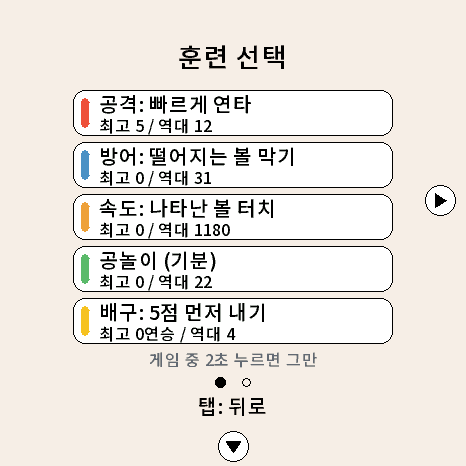
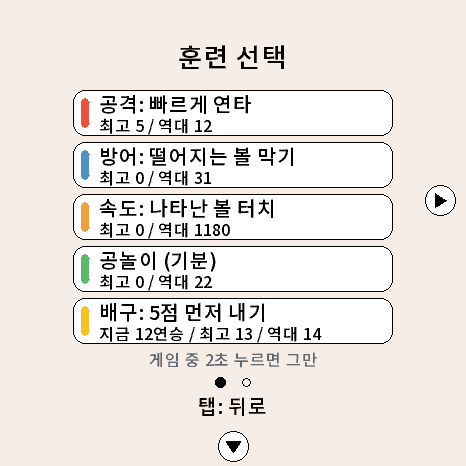
Volleyball: show the current streak; power spikes with the type move effect
- Training menu volleyball row: "Now N wins / best N / all-time N".
- 25% of spikes are power spikes: the pet's type move name and effect
  follow the ball; 22% faster and 20% harder to receive. Both sides.

Claude-Session: https://claude.ai/code/session_01CiwvMdFH9wtdhm1XA9VgMB

Changed region(s): [[0.2103, 0.691, 0.5408, 0.7511], [0.5708, 0.691, 0.691, 0.7511]]

diff --git a/claude-version/TamaPoke/volley.h b/claude-version/TamaPoke/volley.h
@@ -25,6 +25,9 @@
 #define VB_JUMP_V 470.0f
 #define VB_MAXV 720.0f
 #define VB_SPIKE_MAXV 1000.0f  // remate: tope de velocidad
+#define VB_POWER_PCT 25        // ko11.9.4: % de remates que salen como 강스파이크
+#define VB_POWER_SPEED 1.22f   //   ... mas rapidos
+#define VB_POWER_DIG 20        //   ... y quitan este % a recibirlos bien
 
 enum : uint8_t { VB_SERVE = 0, VB_PLAY, VB_POINT, VB_OVER };
 
@@ -45,6 +48,7 @@ struct VbPlayer {
 struct VbBall {
   float x = 0, y = 0, vx = 0, vy = 0;
   bool spiked = false;
+  bool power = false;          // ko11.9.4: 강스파이크 (tecnica del tipo): mas rapida y dificil de recibir
   uint8_t spikeSide = 0;
 };
 
@@ -99,6 +103,7 @@ struct VolleyGame {
     b.y = VB_GROUND - 190;
     b.vx = b.vy = 0;
     b.spiked = false;
+    b.power = false;
     state = VB_SERVE;
     stateT = 0;
     aiErr = (float)((int)rng.below(121) - 60) * (1.0f - aiLevel * 0.16f);
@@ -301,20 +306,24 @@ struct VolleyGame {
       // ko11.9.1: con autoMove0 el jugador remata solo si toca la pelota en el aire
       bool wantSpike = q.spikeUntil > t || (s == 0 && autoMove0);
       bool canSpike = airborne(s) && wantSpike && ny < 0.6f && b.y < VB_NET_TOP - 30;
-      if (canSpike) canSpike = spikeAim(s, q.spikePow, &spVx, &spVy);
+      bool power = canSpike && rng.below(100) < VB_POWER_PCT;  // ko11.9.4
+      if (canSpike) canSpike = spikeAim(s, q.spikePow * (power ? VB_POWER_SPEED : 1.0f), &spVx, &spVy);
       if (canSpike) {  // remate: fuerte y hacia abajo, cae dentro del otro campo
         b.vx = spVx;
         b.vy = spVy;
         b.spiked = true;
+        b.power = power;
         b.spikeSide = (uint8_t)s;
         q.spikeUntil = 0;
         q.spikeT = t;
         spikes[s]++;
-      } else if (b.spiked && b.spikeSide != s && rng.below(100) >= q.dig) {
+      } else if (b.spiked && b.spikeSide != s &&
+                 rng.below(100) >= (b.power ? (q.dig > VB_POWER_DIG ? q.dig - VB_POWER_DIG : 0) : q.dig)) {
         // remate mal recibido: la pelota rebota en el cuerpo hacia atras y cae en su campo
         b.vx = -dir * (90 + (float)rng.below(90));
         b.vy = 60;
         b.spiked = false;
+        b.power = false;
         q.coolUntil = t + 900;
         hits[s]++;
         b.x = cx + nx * (rr + 1);
@@ -325,6 +334,7 @@ struct VolleyGame {
         b.vy = ny * 420;
         if (b.vy > -360) b.vy = -360 - (float)rng.below(70);
         b.spiked = false;
+        b.power = false;
       }
       b.x = cx + nx * (rr + 1);
       b.y = cy + ny * (rr + 1);

diff --git a/claude-version/TamaPoke/i18n_ext.cpp b/claude-version/TamaPoke/i18n_ext.cpp
@@ -107,7 +107,7 @@ static const char *const XS[2][X_COUNT] = {
     "The program crashed (a bug)", "It froze and restarted itself", "Power dropped too low",
     "Full log on the SD: tpsave/crash.txt", "Clear", "Close",
     "Best %u / all-time %u", "Best %u wins / all-time %u", "ALL-TIME RECORD!",
-    "Too young: not kept as raised",
+    "Too young: not kept as raised", "Now %u wins / best %u / all-time %u", "%s POWER SPIKE!",
     "MEADOW", "BEACH", "FOREST", "VOLCANO", "MOUNTAIN", "SNOWFIELD", "POWER PLANT", "DOJO",
     "SWAMP", "DESERT", "RUINS", "GARDEN", "GRAVEYARD", "DRAGON VALE", "CITY", "MINE",
   },
@@ -212,7 +212,7 @@ static const char *const XS[2][X_COUNT] = {
     "프로그램 오류로 멈춤", "응답이 없어서 스스로 다시 시작", "전원이 부족해서 꺼짐",
     "전체 기록: SD카드 tpsave/crash.txt", "기록 지우기", "닫기",
     "최고 %u / 역대 %u", "최고 %u연승 / 역대 %u", "역대 신기록!",
-    "아직 어려서 키운 기록에 안 남아요",
+    "아직 어려서 키운 기록에 안 남아요", "지금 %u연승 / 최고 %u / 역대 %u", "%s 강스파이크!",
     "초원", "바닷가", "숲", "화산", "산", "설원", "발전소", "도장",
     "늪", "사막", "유적", "꽃밭", "묘지", "용의 계곡", "도시", "광산",
   },

diff --git a/claude-version/TamaPoke/test/render/render_main.cpp b/claude-version/TamaPoke/test/render/render_main.cpp
@@ -136,7 +136,8 @@ static void scenes(bool ko, const char *sfx) {
   closeAll();
   // entrenamiento
   closeAll(); openTrainMenu();
-  pet.allStrHi = 12; pet.allDefHi = 31; pet.allSpeHi = 1180; pet.allGameHi = 22; pet.allVbBest = 4;  // ko11.9.2
+  pet.allStrHi = 12; pet.allDefHi = 31; pet.allSpeHi = 1180; pet.allGameHi = 22; pet.allVbBest = 14;  // ko11.9.2
+  pet.vbStreak = 12; pet.vbBest = 13;  // ko11.9.4: el texto mas largo que cabe
   render(); shot("04_train_menu");
   trainMenuPage = 1; render(); shot("04b_train_menu_battle"); trainMenuPage = 0;
   // ko11.9: voleibol, el que se esta criando (Ivysaur) contra uno al azar (Psyduck)
@@ -156,6 +157,7 @@ static void scenes(bool ko, const char *sfx) {
       tick(20); render();
       if (!gotSpike && vb.state == VB_PLAY && vb.b.spiked && vb.b.spikeSide == 0 && vb.t - vb.p[0].spikeT > 60) {
         shot("72_volley_spike"); gotSpike = true;
+        vb.b.power = true; render(); shot("72b_volley_power"); vb.b.power = false;  // ko11.9.4
       }
       if (!gotPoint && vb.state == VB_POINT && vb.stateT > 200) { shot("73_volley_point"); gotPoint = true; }
     }

diff --git a/claude-version/TamaPoke/test/test_volley.cpp b/claude-version/TamaPoke/test/test_volley.cpp
@@ -147,3 +147,25 @@ TEST(Volley, auto_move_runs_to_the_ball_and_air_hits_spike) {
   CHECK(h.b.spiked);
   CHECK_EQ(h.spikes[0], (uint16_t)1);
 }
+
+TEST(Volley, power_spike_sometimes_faster) {
+  // ko11.9.4: ~25% de los remates son 강스파이크 (mas rapidos, peores de recibir)
+  int power = 0, n = 0;
+  float vPow = 0, vNorm = 0;
+  for (uint32_t seed = 1; seed <= 200; seed++) {
+    VolleyGame g;
+    g.begin(seed, 0);
+    g.autoMove0 = true;
+    g.step(VB_SERVE_MS + 10, false);
+    g.jump(0);
+    g.step(250, false);
+    g.b.x = g.p[0].x + 10; g.b.y = g.bodyY(0) - g.p[0].hitR; g.b.vx = 0; g.b.vy = 50;
+    g.substep(0.01f, 10);
+    if (!g.b.spiked) continue;
+    n++;
+    if (g.b.power) { power++; vPow += fabsf(g.b.vx); } else vNorm += fabsf(g.b.vx);
+  }
+  CHECK(n > 150);
+  CHECK(power > n / 10 && power < n * 2 / 5);
+  CHECK(vPow / power > vNorm / (n - power) * 1.15f);
+}

diff --git a/claude-version/TamaPoke/i18n_ext.h b/claude-version/TamaPoke/i18n_ext.h
@@ -107,7 +107,7 @@ enum XId : uint16_t {  // ko10.6: pasaron de 255
   X_VB_STREAK_FMT, X_VB_SPEED_FMT, X_VB_SPIKE, X_VB_TAP_CLOSE, X_VB_QUIT,  // ko11.9
   X_CRASH_BTN_FMT, X_CRASH_TITLE, X_CRASH_LAST_FMT, X_CRASH_WHY_FMT, X_CRASH_AT_FMT, X_CRASH_CNT_FMT,
   X_CRASH_PANIC, X_CRASH_WDT, X_CRASH_POWER, X_CRASH_SD, X_CRASH_CLEAR, X_CRASH_CLOSE,  // ko11.9.2
-  X_BEST_ALL_FMT, X_VB_BEST_ALL_FMT, X_ALL_RECORD, X_RELEASE_SHORT,  // ko11.9.2: records por bicho + historico
+  X_BEST_ALL_FMT, X_VB_BEST_ALL_FMT, X_ALL_RECORD, X_RELEASE_SHORT, X_VB_NOW_FMT, X_VB_POWER_FMT,  // ko11.9.2: records por bicho + historico
   X_REG_0, X_REG_1, X_REG_2, X_REG_3, X_REG_4, X_REG_5, X_REG_6, X_REG_7,
   X_REG_8, X_REG_9, X_REG_10, X_REG_11, X_REG_12, X_REG_13, X_REG_14, X_REG_15,
   X_COUNT

diff --git a/claude-version/확인_대기.md b/claude-version/확인_대기.md
@@ -33,6 +33,12 @@
   → 원인: 전투 화면 사이(지역 고르기·결과·따라오기 팝업 전후)와 전투 메뉴에서는 막지 않았고, 막는 표시를 한 박자 늦게 켬
   → 수정: 전투 메뉴·지역 고르기·통신 메뉴·모든 전투 화면에 있는 동안 + 나온 뒤 2분까지 똥 안 쌈
 
+## 다음 펌(ko11.9.4) 준비
+- 사용자: 배구 현재 연승도 표시 → 훈련 메뉴 배구 줄 "지금 N연승 / 최고 N / 역대 N"
+- 사용자: 배구에 포켓몬 속성 기술 이펙트 (강스파이크) → 스파이크의 25%가 "잎날가르기 강스파이크!"처럼
+  기술 이름 + 속성 이펙트가 공을 따라감. 22% 더 빠르고 받기 확률 -20%. 나·상대 모두
+  시뮬: 승률 거의 그대로, 한 경기 조금 짧아짐
+
 ## ko11.9.3 (2026-09-28 빌드, 기기 확인 대기)
 - 사용자: ko11.9.2를 SD 업데이트로 올린 뒤 "스프라이트 없음 / SD 카드에 넣어주세요" → PWR로 껐다 켜니 정상
   → 스스로 재시작한 뒤 SD 첫 인식 실패로 추정. 켤 때 SD 인식을 최대 4번(0.25초 간격) 다시 시도하도록 수정
